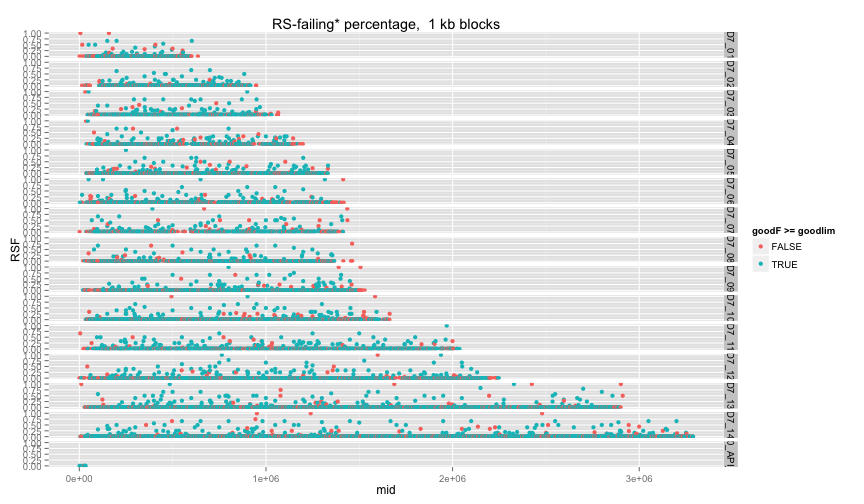
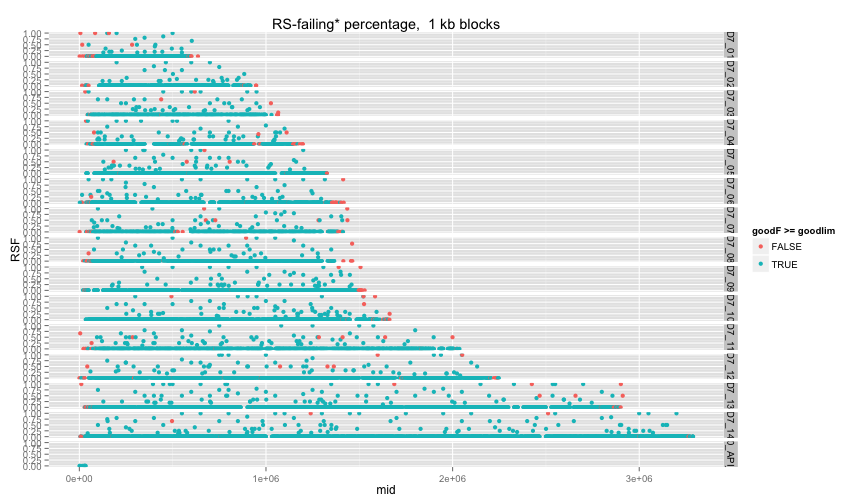
updated reports on disco/nucmer fullruns

Changed region(s): [[0.0938, 0.0595, 0.8125, 0.8929]]

diff --git a/reports/150730_swscore_blocksums/runAnalysisSW_blockSummaries.md b/reports/150730_swscore_blocksums/runAnalysisSW_blockSummaries.md
@@ -81,17 +81,24 @@ table(SWscores[,c("error","set")])
 ##   RSerror  1464    716
 ```
 
+```r
+#remake subtables with chr/pos values, etc
+SWdisco <- subset(SWscores,set=="DISCO")
+SWnucmer <- subset(SWscores,set=="NUCMER")
+```
+
 
 
 ```r
+#make nucmer blockscores
 blocksize <- 1000
-SWscores$block <- paste(SWscores$chr,floor(SWscores$pos/blocksize),sep=":")
+SWnucmer$block <- paste(SWnucmer$chr,floor(SWnucmer$pos/blocksize),sep=":")
 
-varcount <- aggregate(SWscores$var,by=list(SWscores$block),FUN=length)[,2]
-means <- as.data.frame(aggregate(SWscores[,c("LD","RS","NM")],by=list(SWscores$block),FUN=mean))
-goodcount <- aggregate(SWscores$NM==0,by=list(SWscores$block),FUN=sum)[,2]
-LDcount <- aggregate(SWscores$error=="LDerror",by=list(SWscores$block),FUN=sum)[,2]
-RScount <- aggregate(SWscores$error=="RSerror",by=list(SWscores$block),FUN=sum)[,2]
+varcount <- aggregate(SWnucmer$var,by=list(SWnucmer$block),FUN=length)[,2]
+means <- as.data.frame(aggregate(SWnucmer[,c("LD","RS","NM")],by=list(SWnucmer$block),FUN=mean))
+goodcount <- aggregate(SWnucmer$NM==0,by=list(SWnucmer$block),FUN=sum)[,2]
+LDcount <- aggregate(SWnucmer$error=="LDerror",by=list(SWnucmer$block),FUN=sum)[,2]
+RScount <- aggregate(SWnucmer$error=="RSerror",by=list(SWnucmer$block),FUN=sum)[,2]
 colnames(means)[[1]] <- "block"
 
 poschr <- t(as.data.frame(strsplit(means$block,split = ':')))
@@ -102,18 +109,43 @@ poschr$st = poschr$pos*blocksize
 poschr$mid = poschr$st+(blocksize/2)
 poschr$en = poschr$st+blocksize
 
-blocksum <- cbind(poschr,means,varcount,goodcount,LDcount,RScount)
-fs <- blocksum[,c("goodcount","LDcount","RScount")]/varcount
+blocksumN <- cbind(poschr,means,varcount,goodcount,LDcount,RScount)
+fs <- blocksumN[,c("goodcount","LDcount","RScount")]/varcount
 colnames(fs) <- c("goodF","LDF","RSF")
-blocksum <- cbind(blocksum,fs)
+blocksumN <- cbind(blocksumN,fs)
+rm(fs)
+
+
+#make disco blockscores
+SWdisco$block <- paste(SWdisco$chr,floor(SWdisco$pos/blocksize),sep=":")
+
+varcount <- aggregate(SWdisco$var,by=list(SWdisco$block),FUN=length)[,2]
+means <- as.data.frame(aggregate(SWdisco[,c("LD","RS","NM")],by=list(SWdisco$block),FUN=mean))
+goodcount <- aggregate(SWdisco$NM==0,by=list(SWdisco$block),FUN=sum)[,2]
+LDcount <- aggregate(SWdisco$error=="LDerror",by=list(SWdisco$block),FUN=sum)[,2]
+RScount <- aggregate(SWdisco$error=="RSerror",by=list(SWdisco$block),FUN=sum)[,2]
+colnames(means)[[1]] <- "block"
+
+poschr <- t(as.data.frame(strsplit(means$block,split = ':')))
+colnames(poschr) <- c("chr","pos")
+poschr <- as.data.frame(poschr)
+poschr$pos <- as.numeric(as.character(poschr$pos))
+poschr$st = poschr$pos*blocksize
+poschr$mid = poschr$st+(blocksize/2)
+poschr$en = poschr$st+blocksize
+
+blocksumD <- cbind(poschr,means,varcount,goodcount,LDcount,RScount)
+fs <- blocksumD[,c("goodcount","LDcount","RScount")]/varcount
+colnames(fs) <- c("goodF","LDF","RSF")
+blocksumD <- cbind(blocksumD,fs)
 rm(fs)
 ```
 
-
+#DISCOVAR ONLY
 
 ```r
 goodlim=0.6
-ggplot(blocksum,aes(x=mid,y=LDF,colour=goodF>=goodlim)) + 
+ggplot(blocksumD,aes(x=mid,y=LDF,colour=goodF>=goodlim)) + 
   ggtitle(paste("LD-failing percentage, ",(blocksize/1000),"kb blocks")) +
   geom_point() + facet_grid(chr ~ .)
 ```
@@ -121,7 +153,7 @@ ggplot(blocksum,aes(x=mid,y=LDF,colour=goodF>=goodlim)) +
 ![plot of chunk unnamed-chunk-5](figure/unnamed-chunk-5-1.png) 
 
 ```r
-ggplot(blocksum,aes(x=mid,y=RSF,colour=goodF>=goodlim)) + 
+ggplot(blocksumD,aes(x=mid,y=RSF,colour=goodF>=goodlim)) + 
   ggtitle(paste("RS-failing* percentage, ",(blocksize/1000),"kb blocks")) +
   geom_point() + facet_grid(chr ~ .)
 ```
@@ -129,7 +161,7 @@ ggplot(blocksum,aes(x=mid,y=RSF,colour=goodF>=goodlim)) +
 ![plot of chunk unnamed-chunk-5](figure/unnamed-chunk-5-2.png) 
 
 ```r
-ggplot(blocksum,aes(x=mid,y=LDF+RSF,colour=goodF>=goodlim)) + 
+ggplot(blocksumD,aes(x=mid,y=LDF+RSF,colour=goodF>=goodlim)) + 
   ggtitle(paste("All-failing percentage, ",(blocksize/1000),"kb blocks")) +
   geom_point() + facet_grid(chr ~ .)
 ```
@@ -137,7 +169,7 @@ ggplot(blocksum,aes(x=mid,y=LDF+RSF,colour=goodF>=goodlim)) +
 ![plot of chunk unnamed-chunk-5](figure/unnamed-chunk-5-3.png) 
 
 ```r
-ggplot(blocksum,aes(x=mid,y=goodF,colour=goodF>=goodlim)) + 
+ggplot(blocksumD,aes(x=mid,y=goodF,colour=goodF>=goodlim)) + 
   ggtitle(paste("pass percentage, ",(blocksize/1000),"kb blocks")) +
   geom_point() + facet_grid(chr ~ .)
 ```
@@ -145,38 +177,131 @@ ggplot(blocksum,aes(x=mid,y=goodF,colour=goodF>=goodlim)) +
 ![plot of chunk unnamed-chunk-5](figure/unnamed-chunk-5-4.png) 
 
 ```r
-ggplot(blocksum,aes(x=goodF)) + geom_density(adjust=0.2)
+ggplot(blocksumD,aes(x=goodF)) + geom_density(adjust=0.2)
 ```
 
 ![plot of chunk unnamed-chunk-5](figure/unnamed-chunk-5-5.png) 
 
 ```r
-print(sum(blocksum$goodF>goodlim) / length(blocksum$goodF))
+print(sum(blocksumD$goodF>goodlim) / length(blocksumD$goodF))
 ```
 
 ```
-## [1] 0.7487828
+## [1] 0.9832079
 ```
 
 ```r
-write.table(aggregate(blocksum$goodF,by=list(blocksum$chr),function(x) {sum(x>goodlim) / length(x)}))
+write.table(aggregate(blocksumD$goodF,by=list(blocksumD$chr),function(x) {sum(x>goodlim) / length(x)}))
 ```
 
 ```
 ## "Group.1" "x"
-## "1" "Pf3D7_01_v3" 0.684444444444444
-## "2" "Pf3D7_02_v3" 0.763239875389408
-## "3" "Pf3D7_03_v3" 0.787598944591029
-## "4" "Pf3D7_04_v3" 0.690361445783133
-## "5" "Pf3D7_05_v3" 0.719367588932806
-## "6" "Pf3D7_06_v3" 0.728456913827655
-## "7" "Pf3D7_07_v3" 0.738289205702648
-## "8" "Pf3D7_08_v3" 0.748091603053435
-## "9" "Pf3D7_09_v3" 0.78008658008658
-## "10" "Pf3D7_10_v3" 0.735483870967742
-## "11" "Pf3D7_11_v3" 0.744
-## "12" "Pf3D7_12_v3" 0.760657734470158
-## "13" "Pf3D7_13_v3" 0.762399622106755
-## "14" "Pf3D7_14_v3" 0.764227642276423
-## "15" "PFC10_API_IRAB" 0.875
+## "1" "Pf3D7_01_v3" 0.947727272727273
+## "2" "Pf3D7_02_v3" 0.981848184818482
+## "3" "Pf3D7_03_v3" 0.98236092265943
+## "4" "Pf3D7_04_v3" 0.965116279069767
+## "5" "Pf3D7_05_v3" 0.991516436903499
+## "6" "Pf3D7_06_v3" 0.974137931034483
+## "7" "Pf3D7_07_v3" 0.976241900647948
+## "8" "Pf3D7_08_v3" 0.981409001956947
+## "9" "Pf3D7_09_v3" 0.987364620938628
+## "10" "Pf3D7_10_v3" 0.983079526226734
+## "11" "Pf3D7_11_v3" 0.983181499649615
+## "12" "Pf3D7_12_v3" 0.98190892077355
+## "13" "Pf3D7_13_v3" 0.988448016072325
+## "14" "Pf3D7_14_v3" 0.994546979865772
+## "15" "PFC10_API_IRAB" 1
+```
+
+##nucmer
+
+```r
+ggplot(blocksumN,aes(x=mid,y=goodF,colour=goodF>=goodlim)) + 
+  ggtitle(paste("pass percentage, ",(blocksize/1000),"kb blocks")) +
+  geom_point() + facet_grid(chr ~ .)
+```
+
+![plot of chunk unnamed-chunk-6](figure/unnamed-chunk-6-1.png) 
+
+```r
+ggplot(blocksumN,aes(x=goodF)) + geom_density(adjust=0.2)
+```
+
+![plot of chunk unnamed-chunk-6](figure/unnamed-chunk-6-2.png) 
+
+```r
+print(sum(blocksumN$goodF>goodlim) / length(blocksumN$goodF))
+```
+
+```
+## [1] 0.5338213
+```
+
+
+```r
+#limits <- c(12:20)/20
+limits <- c(6:10)/10
+outm <- aggregate(blocksumN$goodF,by=list(blocksumN$chr),length)
+total <- outm[,2]
+for(limit in limits) {
+  pass <- aggregate(blocksumN$goodF,by=list(blocksumN$chr),function(x){sum(x>=limit)})[,2]
+  pass <- as.numeric(pass)
+  pass <- round(pass/total,3)
+  outm <- cbind(outm,pass)  
+}
+colnames(outm) <- c("chr","blocks",paste("x",limits,sep=""))
+#NUCMER LIMITS
+outm
+```
+
+```
+##               chr blocks  x0.6  x0.7  x0.8  x0.9    x1
+## 1     Pf3D7_01_v3    398 0.475 0.397 0.344 0.332 0.332
+## 2     Pf3D7_02_v3    600 0.553 0.480 0.452 0.425 0.423
+## 3     Pf3D7_03_v3    707 0.583 0.487 0.454 0.438 0.438
+## 4     Pf3D7_04_v3    759 0.489 0.411 0.381 0.354 0.354
+## 5     Pf3D7_05_v3    978 0.518 0.428 0.397 0.380 0.380
+## 6     Pf3D7_06_v3    908 0.558 0.467 0.428 0.417 0.417
+## 7     Pf3D7_07_v3    903 0.553 0.477 0.442 0.421 0.421
+## 8     Pf3D7_08_v3    995 0.555 0.469 0.424 0.405 0.405
+## 9     Pf3D7_09_v3   1083 0.575 0.485 0.443 0.421 0.421
+## 10    Pf3D7_10_v3   1164 0.531 0.452 0.408 0.386 0.386
+## 11    Pf3D7_11_v3   1425 0.535 0.448 0.408 0.385 0.385
+## 12    Pf3D7_12_v3   1546 0.559 0.471 0.429 0.413 0.413
+## 13    Pf3D7_13_v3   2005 0.580 0.486 0.450 0.432 0.432
+## 14    Pf3D7_14_v3   2373 0.557 0.486 0.450 0.432 0.432
+## 15 PFC10_API_IRAB      4 0.500 0.500 0.500 0.500 0.500
+```
+
+```r
+#DISCO LIMITS
+outm <- aggregate(blocksumD$goodF,by=list(blocksumD$chr),length)
+total <- outm[,2]
+for(limit in limits) {
+  pass <- aggregate(blocksumD$goodF,by=list(blocksumD$chr),function(x){sum(x>=limit)})[,2]
+  pass <- as.numeric(pass)
+  pass <- round(pass/total,3)
+  outm <- cbind(outm,pass)  
+}
+colnames(outm) <- c("chr","blocks",paste("x",limits,sep=""))
+outm
+```
+
+```
+##               chr blocks  x0.6  x0.7  x0.8  x0.9    x1
+## 1     Pf3D7_01_v3    440 0.948 0.936 0.930 0.927 0.927
+## 2     Pf3D7_02_v3    606 0.982 0.980 0.979 0.977 0.977
+## 3     Pf3D7_03_v3    737 0.982 0.978 0.977 0.974 0.974
+## 4     Pf3D7_04_v3    774 0.968 0.964 0.960 0.957 0.957
+## 5     Pf3D7_05_v3    943 0.992 0.990 0.988 0.987 0.987
+## 6     Pf3D7_06_v3    928 0.975 0.968 0.968 0.966 0.966
+## 7     Pf3D7_07_v3    926 0.976 0.971 0.970 0.965 0.965
+## 8     Pf3D7_08_v3   1022 0.981 0.978 0.977 0.974 0.974
+## 9     Pf3D7_09_v3   1108 0.987 0.986 0.983 0.982 0.982
+## 10    Pf3D7_10_v3   1182 0.984 0.974 0.970 0.966 0.966
+## 11    Pf3D7_11_v3   1427 0.985 0.980 0.980 0.976 0.976
+## 12    Pf3D7_12_v3   1603 0.983 0.980 0.976 0.974 0.974
+## 13    Pf3D7_13_v3   1991 0.988 0.986 0.983 0.982 0.982
+## 14    Pf3D7_14_v3   2384 0.995 0.993 0.992 0.990 0.990
+## 15 PFC10_API_IRAB      8 1.000 1.000 1.000 1.000 1.000
 ```
